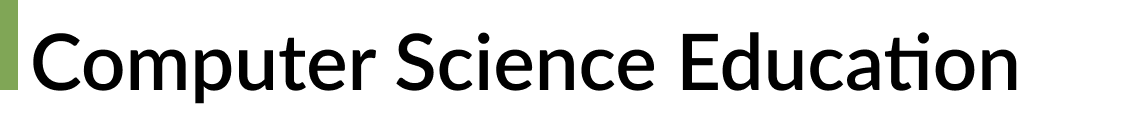
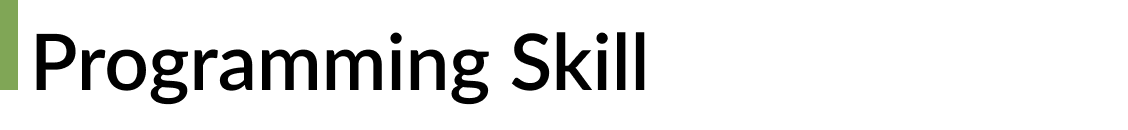
Updated mainpage

Changed region(s): [[0.031, 0.2462, 0.8998, 0.8]]

diff --git a/index.html b/index.html
@@ -50,11 +50,11 @@
                     </p>
                     <hr style="width:100%;margin-left:0">
                     <p class="opening">
-                        I am interested in integrating learning science theories into human-centered design techniques to engage students and promote learning, with a particular focus on <b>programming learning</b>.<br>
-                        I apply <b>mixed-methods approach</b> and <b>Machine Learning techniques</b> to understand learning behaviors and build new tools in a variety of programming learning environments (online and physical classrooms; formal and informal).<br>
+                        I am interested in integrating learning science theories into human-centered design techniques to engage students and promote learning, with a particular focus on <b>programming skills</b>, such as reading, writing, and explaining code.<br>
+                        I apply <b>Mixed-Methods Approach</b> and <b>Machine Learning Techniques</b> to understand learning behaviors and build new tools in a variety of programming learning environments.<br>
                         Recently, I am working on two projects:<br>
                         (1) Develop more scalable, low-cost, easy-to-implement, and high-quality scaffolding tools for novice programmers<br>
-                        (2) Understand student behaviors and learning when integrating GitHub Copilot into K-12 programming learning<br>
+                        (2) Understand student behaviors when incorporating AI Code Generators into K-12 text-based programming learning<br>
                     </p>
                     <!-- <p class="opening">
                         <b>Research Interests:</b> Human-Computer Interaction, Computing Education, Educational Technology
@@ -174,17 +174,32 @@
                 PROJECT
             </h3>
             <!-- <div class="gap-20"></div> -->
-
             <div class="row pt-2"><img style="height:50%" class="title col-lg-4 align-left" src="img/pjt_title1.png" /></div>
             <h6 class="row col-lg-12 align-center display-5">CS Education / Programming Learning </h6>
-            <div class="row pt-0">
-                
-                <div class="card card-columns p-0 col ">
+            <!-- programming skills -->
+            <div class="row col-lg-12 pt-5">
+                <div class="card card-columns p-0 col-12 col-md-3 col-lg-3">
+                    <div>
+                        <div class = "img-container">
+                              <img class="image-box" src="img/pjt_Elearning.png" />
+                              <div class="overlay"></div>
+                              <div class="large-button btn-link">Ongoing</div>
+                        </div>
+                        <div class="card-box">
+                            <h7 class="card-title">AI Coding Assistant</h7>
+                            <p><h8>2022.09 - Present</h8></p>
+                            <p class="align-left display-7">How generating code from natural
+                                language descriptions can contribute to intro-level programming</p>
+                        </div>
+                    </div>
+                </div>
+
+                <div class="card card-columns p-0 col-12 col-md-3 col-lg-3">
                     <div>
                         <div class ="img-container">
                             <img class="image-box" src="img/pjt_Parsons.png" />
                             <div class="overlay"></div>
-                            <!-- <div class="large-button btn-link"><a href="pjt_Parsons.html"> Learn More </a></div> -->
+                            <div class="large-button btn-link">Ongoing</div>
                         </div>
                         <div class="card-box">
                             <h7 class="card-title">Parsons Problem As Scaffolding</h7>
@@ -198,8 +213,8 @@
                         </div>
                     </div>
                 </div>
-                
-                <div class="card p-0 col">
+
+                <div class="card card-columns p-0 col-12 col-md-3 col-lg-3">
                     <div>
                         <div class ="img-container">
                             <img class="image-box" src="img/pjt_Capstone.png" />

diff --git a/css/style.css b/css/style.css
@@ -296,6 +296,7 @@ img {
   margin: 0 auto;
   border-radius: 13px;
 }
+
 .research_interests{
 	font-size: 16px;
 	font-family: Lato-Regular;
@@ -315,16 +316,16 @@ img {
 }
 
 .large-button {
-	position: absolute;
-	width: 200px;
-	left:160px;
-	top: 200px;
-	text-align: center;
-	opacity: 0;
-	transition: opacity .35s ease;
-	margin: 0 auto;
-	border-radius: 13px;
-  }
+  position: absolute;
+  width: 200px;
+  left:30px;
+  top: 100px;
+  text-align: center;
+  opacity: 0;
+  transition: opacity .35s ease;
+  margin: 0 auto;
+  border-radius: 13px;
+}
 
 
 .img-container:hover .button, .img-container:hover  .mini-button, .img-container:hover .large-button {
